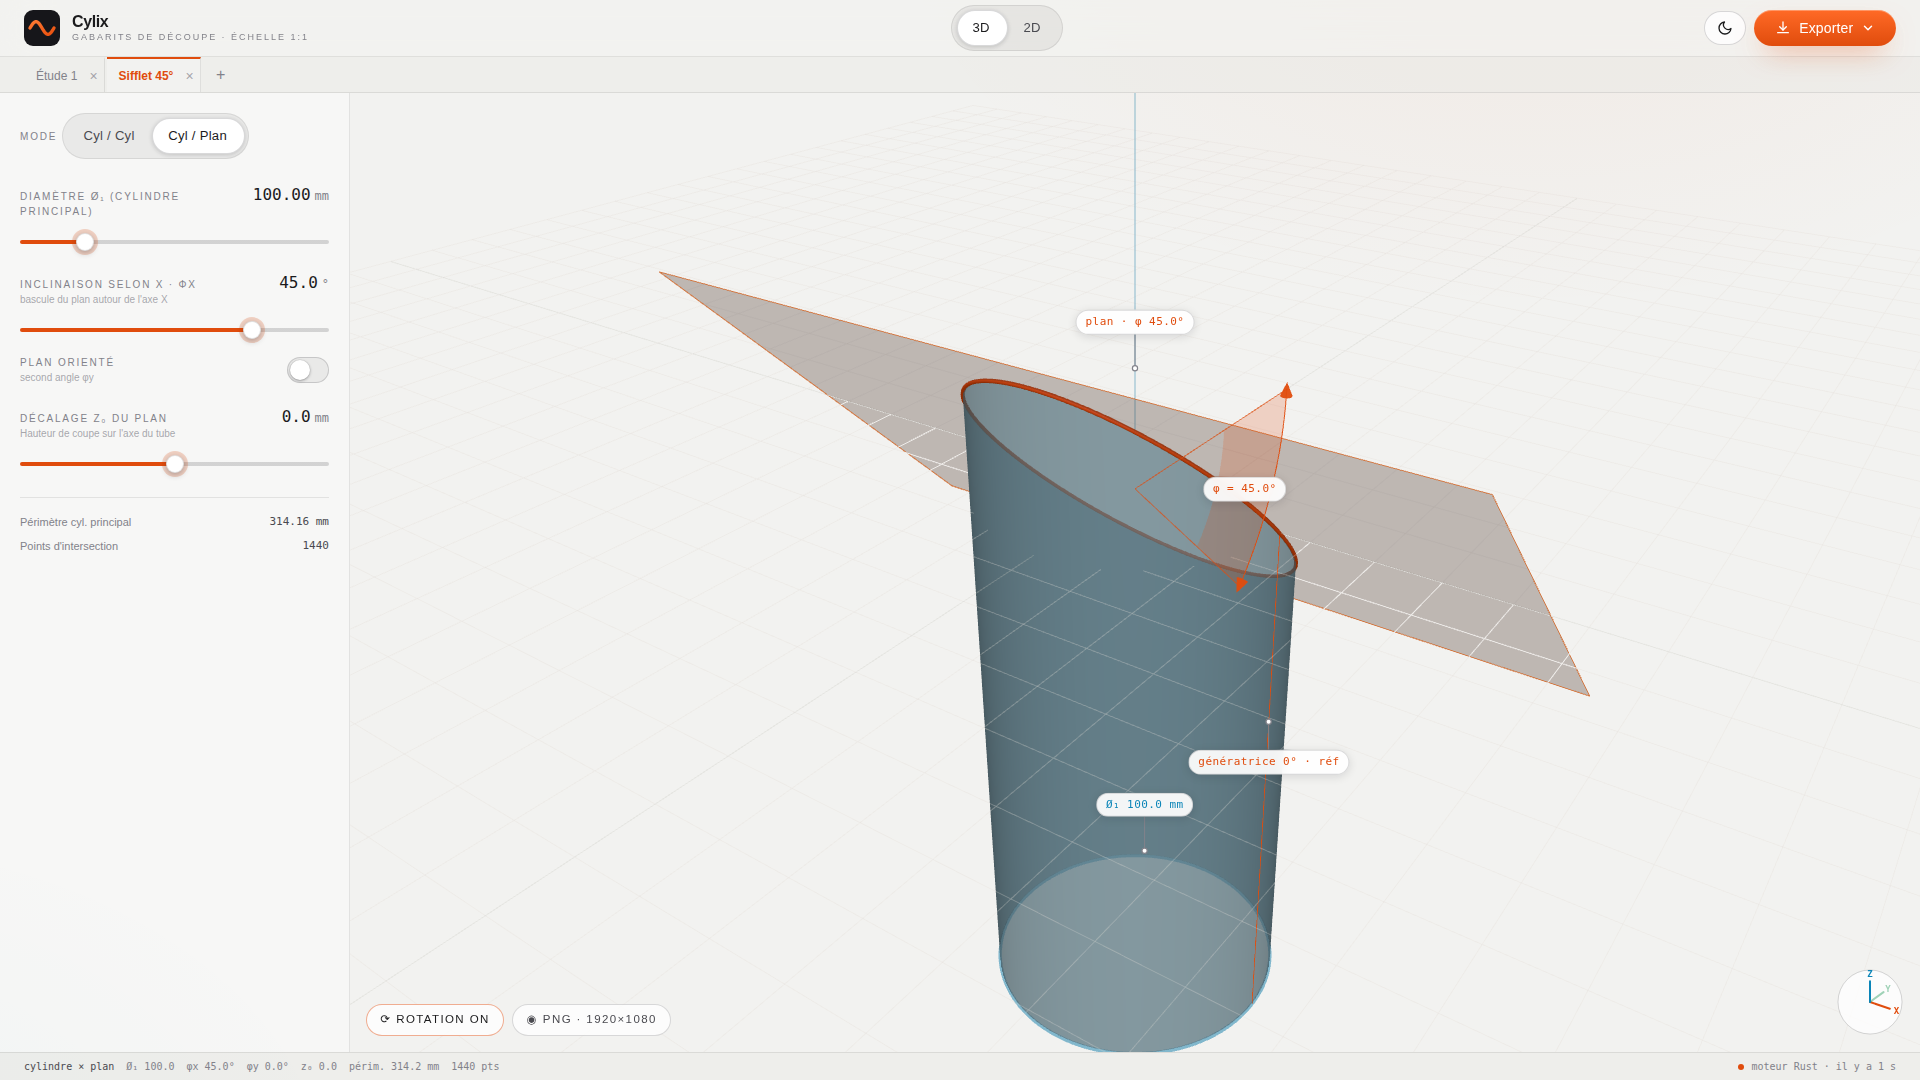
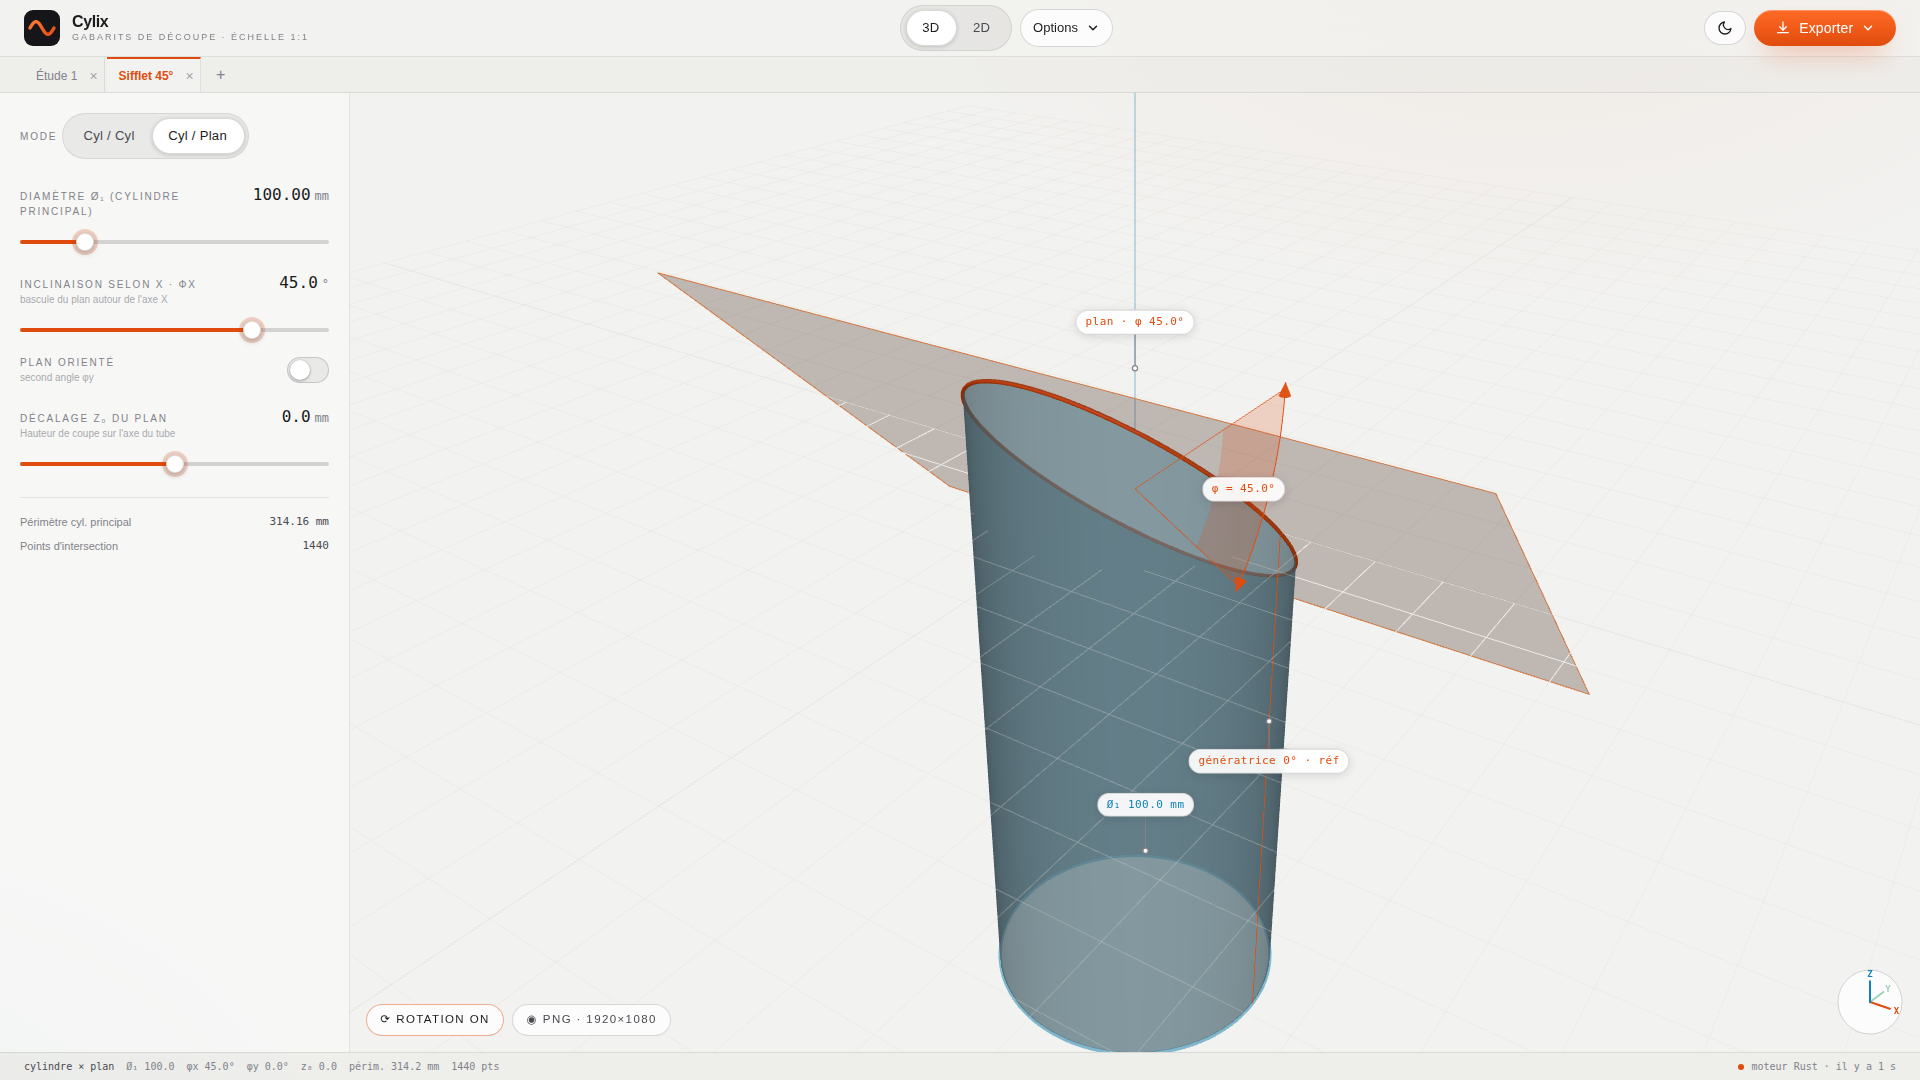
Panneau épuré : les options passent dans un menu du header
- Nouveau composant OptionsMenu : bouton « Options » à droite du toggle
  3D/2D, panneau déroulant opaque (mise en page, échelle, calques, trait
  de coupe, cartouche), fermeture au clic extérieur
- ExportPanel réduit aux annotations et aux boutons PDF 1:1 / DXF
- Captures d'écran et images de la landing régénérées

Claude-Session: https://claude.ai/code/session_01DVYZEnZfpxvTCaQceh5G1Y

diff --git a/web/src/components/OptionsMenu.svelte b/web/src/components/OptionsMenu.svelte
@@ -1,0 +1,153 @@
+<script lang="ts">
+  // Header dropdown for layout/export options — keeps the left panel clean.
+  import Segmented from "./Segmented.svelte";
+  import Slider from "./Slider.svelte";
+  import { editor } from "../lib/editor.svelte";
+  import type { PageFormat, PageOrientation, ScaleMode } from "../lib/export";
+
+  let open = $state(false);
+
+  const formatOptions = [
+    { label: "A4", value: "a4" as PageFormat },
+    { label: "A3", value: "a3" as PageFormat },
+    { label: "A2", value: "a2" as PageFormat },
+  ];
+  const orientationOptions = [
+    { label: "Paysage", value: "landscape" as PageOrientation },
+    { label: "Portrait", value: "portrait" as PageOrientation },
+  ];
+  const scaleOptions = [
+    { label: "1:1 · tuiles", value: "one_to_one" as ScaleMode },
+    { label: "Ajusté", value: "fit" as ScaleMode },
+  ];
+
+  const layerDefs: [keyof typeof editor.layers & string, string][] = [
+    ["grid", "Grille 10 mm"],
+    ["frame", "Emprise du tube"],
+    ["axis", "Génératrices 90°"],
+    ["labels", "Étiquettes"],
+    ["scale_bar", "Règle 100 mm"],
+  ];
+
+  function clickOutside(node: HTMLElement) {
+    const onDown = (e: PointerEvent) => {
+      if (!node.contains(e.target as Node)) open = false;
+    };
+    document.addEventListener("pointerdown", onDown, true);
+    return { destroy: () => document.removeEventListener("pointerdown", onDown, true) };
+  }
+</script>
+
+<div class="relative" use:clickOutside>
+  <button
+    class="btn-ghost !py-2 !px-3 text-[13px]"
+    aria-haspopup="menu"
+    aria-expanded={open}
+    onclick={() => (open = !open)}
+  >
+    Options
+    <svg
+      viewBox="0 0 24 24"
+      class="w-3.5 h-3.5 fill-none stroke-current transition-transform {open ? 'rotate-180' : ''}"
+      stroke-width="2.5"
+      stroke-linecap="round"
+      stroke-linejoin="round"
+    >
+      <path d="m6 9 6 6 6-6" />
+    </svg>
+  </button>
+
+  {#if open}
+    <div
+      class="absolute left-1/2 -translate-x-1/2 top-[calc(100%+10px)] w-[360px] glass-strong card-hairline rounded-2xl p-5 z-50 flex flex-col gap-6 max-h-[calc(100vh-96px)] overflow-y-auto"
+      style="background: var(--bg-2); backdrop-filter: none; -webkit-backdrop-filter: none"
+    >
+      <section class="space-y-3">
+        <span class="text-[10px] uppercase tracking-[0.18em] text-ash">Mise en page</span>
+        <div class="flex flex-wrap gap-2">
+          <Segmented
+            options={formatOptions}
+            value={editor.page.format}
+            onchange={(v) => (editor.page = { ...editor.page, format: v })}
+          />
+          <Segmented
+            options={orientationOptions}
+            value={editor.page.orientation}
+            onchange={(v) => (editor.page = { ...editor.page, orientation: v })}
+          />
+        </div>
+        <Segmented
+          options={scaleOptions}
+          value={editor.scale}
+          onchange={(v) => (editor.scale = v)}
+        />
+        <p class="text-[10px] text-ash/70 leading-relaxed">
+          1:1 = tracé direct sur tôle/tube après collage des tuiles (repères inclus).
+          « Ajusté » n'est qu'un aperçu, jamais pour le traçage.
+        </p>
+      </section>
+
+      <section class="space-y-3">
+        <span class="text-[10px] uppercase tracking-[0.18em] text-ash">Calques</span>
+        <div class="grid grid-cols-2 gap-x-3 gap-y-2">
+          {#each layerDefs as [key, label] (key)}
+            <label class="flex items-center gap-2 cursor-pointer text-[13px] text-silver">
+              <input
+                type="checkbox"
+                class="accent-[#ff5b1a] w-3.5 h-3.5"
+                checked={editor.layers[key]}
+                onchange={(e) =>
+                  (editor.layers = {
+                    ...editor.layers,
+                    [key]: (e.currentTarget as HTMLInputElement).checked,
+                  })}
+              />
+              {label}
+            </label>
+          {/each}
+        </div>
+      </section>
+
+      <Slider
+        label="Trait de coupe"
+        unit="mm"
+        min={0.1}
+        max={1}
+        step={0.05}
+        value={editor.cutWidth}
+        decimals={2}
+        onchange={(v) => (editor.cutWidth = v)}
+      />
+
+      <section class="space-y-2">
+        <span class="text-[10px] uppercase tracking-[0.18em] text-ash">Cartouche</span>
+        <div class="grid grid-cols-2 gap-2">
+          {#each [["title", "Titre"], ["project", "Projet"], ["author", "Auteur"], ["date", "Date"]] as [key, ph] (key)}
+            <input
+              type="text"
+              placeholder={ph}
+              class="panel-input px-2.5 py-1.5 text-[13px] min-w-0"
+              value={editor.titleBlock[key as keyof typeof editor.titleBlock]}
+              oninput={(e) =>
+                (editor.titleBlock = {
+                  ...editor.titleBlock,
+                  [key]: (e.currentTarget as HTMLInputElement).value,
+                })}
+            />
+          {/each}
+        </div>
+        <input
+          type="text"
+          placeholder="Notes (procédé, matière, consignes…)"
+          class="w-full panel-input px-2.5 py-1.5 text-[13px]"
+          value={editor.titleBlock.notes}
+          oninput={(e) =>
+            (editor.titleBlock = {
+              ...editor.titleBlock,
+              notes: (e.currentTarget as HTMLInputElement).value,
+            })}
+        />
+      </section>
+    </div>
+  {/if}
+</div>

diff --git a/web/src/components/ExportPanel.svelte b/web/src/components/ExportPanel.svelte
@@ -1,149 +1,11 @@
 <script lang="ts">
-  // Export settings — shown in the sidebar when the 2D workspace is active.
-  import Segmented from "./Segmented.svelte";
-  import Slider from "./Slider.svelte";
+  // Annotations + export actions — shown in the sidebar when the 2D
+  // workspace is active. Layout options live in the header Options menu.
   import { store } from "../lib/store.svelte";
   import { editor } from "../lib/editor.svelte";
-  import type { PageFormat, PageOrientation, ScaleMode } from "../lib/export";
-
-  const formatOptions = [
-    { label: "A4", value: "a4" as PageFormat },
-    { label: "A3", value: "a3" as PageFormat },
-    { label: "A2", value: "a2" as PageFormat },
-  ];
-  const orientationOptions = [
-    { label: "Paysage", value: "landscape" as PageOrientation },
-    { label: "Portrait", value: "portrait" as PageOrientation },
-  ];
-  const scaleOptions = [
-    { label: "1:1 · tuiles", value: "one_to_one" as ScaleMode },
-    { label: "Ajusté", value: "fit" as ScaleMode },
-  ];
-
-  let showOptions = $state(false);
-
-  const layerDefs: [keyof typeof editor.layers & string, string][] = [
-    ["grid", "Grille 10 mm"],
-    ["frame", "Emprise du tube"],
-    ["axis", "Génératrices 90°"],
-    ["labels", "Étiquettes"],
-    ["scale_bar", "Règle 100 mm"],
-  ];
 </script>
 
 <div class="flex flex-col gap-5">
-  <button
-    class="w-full flex items-center justify-between px-3 py-2.5 rounded-xl border border-mist bg-carbon/60 hover:bg-carbon transition-colors"
-    onclick={() => (showOptions = !showOptions)}
-    aria-expanded={showOptions}
-  >
-    <span class="text-[11px] uppercase tracking-[0.18em] text-silver">Options</span>
-    <span class="flex items-center gap-2 text-[10px] text-ash num">
-      {editor.page.format.toUpperCase()} · {editor.page.orientation === "landscape"
-        ? "paysage"
-        : "portrait"} · {editor.scale === "one_to_one" ? "1:1" : "ajusté"}
-      <svg
-        viewBox="0 0 24 24"
-        class="w-3.5 h-3.5 fill-none stroke-current transition-transform {showOptions
-          ? 'rotate-180'
-          : ''}"
-        stroke-width="2"
-        stroke-linecap="round"
-        stroke-linejoin="round"
-      >
-        <path d="m6 9 6 6 6-6" />
-      </svg>
-    </span>
-  </button>
-
-  {#if showOptions}
-  <div class="flex flex-col gap-6 pl-1">
-  <section class="space-y-3">
-    <span class="text-[10px] uppercase tracking-[0.18em] text-ash">Mise en page</span>
-    <div class="flex flex-wrap gap-2">
-      <Segmented
-        options={formatOptions}
-        value={editor.page.format}
-        onchange={(v) => (editor.page = { ...editor.page, format: v })}
-      />
-      <Segmented
-        options={orientationOptions}
-        value={editor.page.orientation}
-        onchange={(v) => (editor.page = { ...editor.page, orientation: v })}
-      />
-    </div>
-    <Segmented options={scaleOptions} value={editor.scale} onchange={(v) => (editor.scale = v)} />
-    <p class="text-[10px] text-ash/70 leading-relaxed">
-      1:1 = tracé direct sur tôle/tube après collage des tuiles (repères inclus). « Ajusté »
-      n'est qu'un aperçu — jamais pour le traçage.
-    </p>
-  </section>
-
-  <section class="space-y-3">
-    <span class="text-[10px] uppercase tracking-[0.18em] text-ash">Calques</span>
-    <div class="grid grid-cols-2 gap-x-3 gap-y-2">
-      {#each layerDefs as [key, label] (key)}
-        <label class="flex items-center gap-2 cursor-pointer text-[13px] text-silver">
-          <input
-            type="checkbox"
-            class="accent-[#ff5b1a] w-3.5 h-3.5"
-            checked={editor.layers[key]}
-            onchange={(e) =>
-              (editor.layers = {
-                ...editor.layers,
-                [key]: (e.currentTarget as HTMLInputElement).checked,
-              })}
-          />
-          {label}
-        </label>
-      {/each}
-    </div>
-  </section>
-
-  <Slider
-    label="Trait de coupe"
-    unit="mm"
-    min={0.1}
-    max={1}
-    step={0.05}
-    value={editor.cutWidth}
-    decimals={2}
-    onchange={(v) => (editor.cutWidth = v)}
-  />
-
-  <section class="space-y-2">
-    <span class="text-[10px] uppercase tracking-[0.18em] text-ash">Cartouche</span>
-    <div class="grid grid-cols-2 gap-2">
-      {#each [["title", "Titre"], ["project", "Projet"], ["author", "Auteur"], ["date", "Date"]] as [key, ph] (key)}
-        <input
-          type="text"
-          placeholder={ph}
-          class="panel-input px-2.5 py-1.5 text-[13px] min-w-0"
-          value={editor.titleBlock[key as keyof typeof editor.titleBlock]}
-          oninput={(e) =>
-            (editor.titleBlock = {
-              ...editor.titleBlock,
-              [key]: (e.currentTarget as HTMLInputElement).value,
-            })}
-        />
-      {/each}
-    </div>
-    <input
-      type="text"
-      placeholder="Notes (procédé, matière, consignes…)"
-      class="w-full panel-input px-2.5 py-1.5 text-[13px]"
-      value={editor.titleBlock.notes}
-      oninput={(e) =>
-        (editor.titleBlock = {
-          ...editor.titleBlock,
-          notes: (e.currentTarget as HTMLInputElement).value,
-        })}
-    />
-  </section>
-
-  </div>
-  {/if}
-
   <section class="space-y-2">
     <span class="text-[10px] uppercase tracking-[0.18em] text-ash">Annotations</span>
     {#if editor.annotations.length === 0}

diff --git a/web/src/components/Header.svelte b/web/src/components/Header.svelte
@@ -1,6 +1,7 @@
 <script lang="ts">
-  // Compact tool header: brand, view toggle, actions.
+  // Compact tool header: brand, view toggle, options, actions.
   import Segmented from "./Segmented.svelte";
+  import OptionsMenu from "./OptionsMenu.svelte";
   import { store, type View } from "../lib/store.svelte";
   import { editor } from "../lib/editor.svelte";
 
@@ -57,8 +58,9 @@
       </div>
     </a>
 
-    <div class="mx-auto">
+    <div class="mx-auto flex items-center gap-2">
       <Segmented options={viewOptions} value={store.view} onchange={(v) => store.setView(v)} />
+      <OptionsMenu />
     </div>
 
     <div class="flex items-center gap-2 shrink-0">
